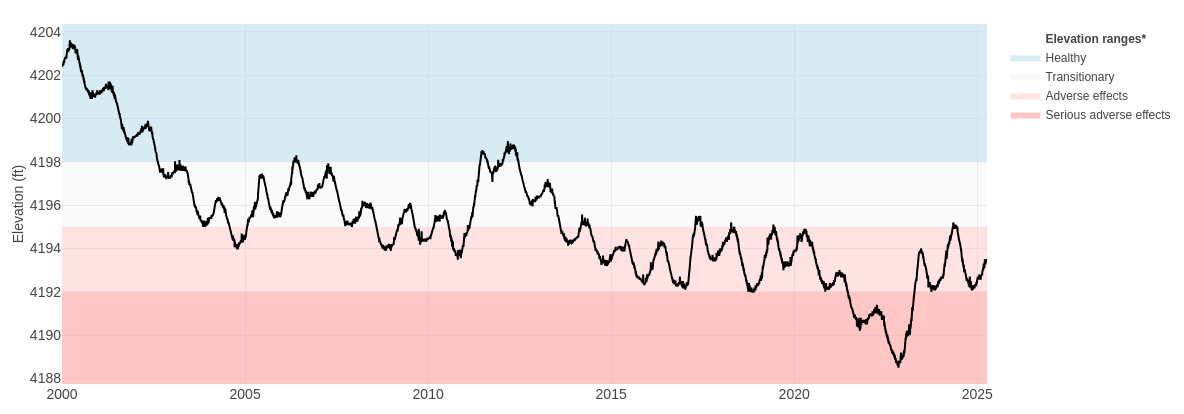
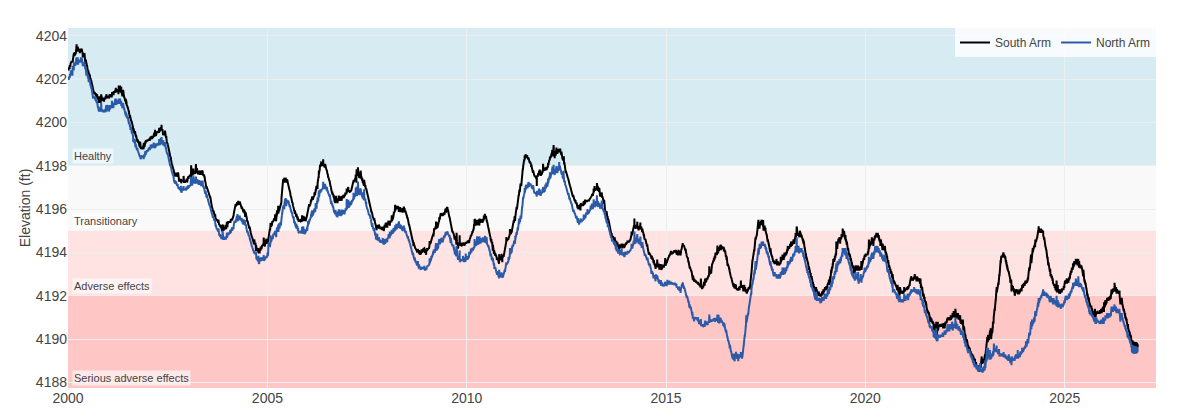
readme plot preview updated

diff --git a/index.html b/index.html
@@ -136,7 +136,7 @@
 			});
 	</script>
 	<!-- <p>
-		*See the <a href=https://gardner.utah.edu/great-salt-lake-strike-team />Strike Team report</a>
+		See the <a href=https://gardner.utah.edu/great-salt-lake-strike-team />Strike Team report</a>
 	</p> -->
 </body>
 

diff --git a/README.md b/README.md
@@ -15,6 +15,6 @@ Updates every six hours via GitHub Actions, using USGS gauges [10010000](https:/
 Title and footnote are omitted, so they can be styled to fit your webpage. Title can be something like, "Great Salt Lake, daily water level". Footnote should reference the GSL Strike Team reports, e.g.:
 
 ```html
-*See the <a href=https://gardner.utah.edu/great-salt-lake-strike-team />Strike Team report</a>
+See the <a href=https://gardner.utah.edu/great-salt-lake-strike-team />Strike Team report</a>
 ```
 
